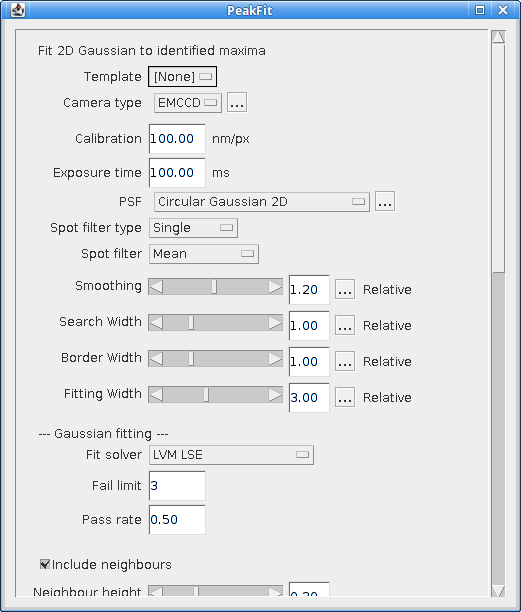
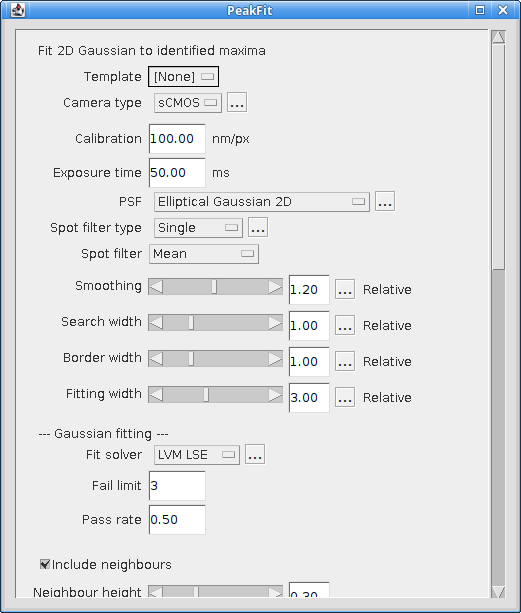
Update PeakFit docs

diff --git a/docs/fitting_plugins.rst b/docs/fitting_plugins.rst
@@ -481,7 +481,7 @@ The maxima identification parameters control the search for local maxima in the 
    * - Spot filter type
      - The type of filter to use. The default is a ``Single`` filter.
 
-       If a ``Difference`` or ``Jury`` filter is selected then the plugin will present an additional dialog to configure each additional spot filter. See section :numref:`{number}: {name} <fitting_plugins:Spot Filter Type>`.
+       If a ``Difference`` or ``Jury`` filter is selected then pressing the ``...`` button will present an additional dialog to configure each additional spot filter. See section :numref:`{number}: {name} <fitting_plugins:Spot Filter Type>`.
 
    * - Spot filter
      - The name of the first spot filter:
@@ -570,7 +570,7 @@ The fitting parameters control the fitting algorithm. Fitting is performed on ea
 
        *   ``Fast MLE``: Use a fast Newton-Raphson gradient based maximum likelihood estimation (MLE). The probability model uses Poisson shot noise and Gaussian read noise.
 
-       Each ``Fit Solver`` requires further parameters that are collected in a separate dialog.
+       Each ``Fit Solver`` requires further parameters that can be configured by pressing the ``...`` button.
 
    * - Fail Limit
      - Stop processing the image frame when more than N *consecutive* candidates are rejected. The candidate may be rejected due to a failure to fit the PSF or due to the PSF filter parameters.
@@ -1271,7 +1271,7 @@ The following filtering parameters can be configured:
    * - Smart filter
      - Set to **true** to enable the smart filter.
 
-       A separate dialog is used to enter the XML description of the smart filter.
+       A separate dialog is used to enter the XML description of the smart filter by pressing the ``...`` button.
 
    * - Disable simple filter
      - Set to **true** to disable the simple filters. Only the smart filter will be used.
@@ -1482,6 +1482,23 @@ The results parameters control where the list of localisations will be recorded.
        This is very fast and is the default option applied when no other results outputs are chosen (preventing the loss of results). Results in memory can be accessed by other plugins, for example the ``Result Manager`` can convert them to file or images.
 
        The memory results will be named using the input image title. If a results set already exists with the same name then it will be replaced.
+
+
+
+.. index:: Peak Fit Preview
+
+Peak Fit Preview
+~~~~~~~~~~~~~~~~
+
+If the ``Peak Fit`` plugin is executed using an image then a ``Preview`` option is provided. When preview mode is enabled then any changes to the settings are used to perform fitting on the current image frame. The preview can overlay the results on the current frame and display a table of the results. Preview options are configured using the ``...`` button including configuration of the preview results table. This configuration is separate from the main results table output as fitting of the entire image may not select to generate a table. The preview will respect the ``Log progress`` and ``Show deviations`` options on the main dialog.
+
+If the settings are invalid then an error message is written to the ``ImageJ`` log window and the current preview output will be removed.
+
+.. note::
+
+    Preview mode can be used to experiment with settings and interactively view the effects of changes. However the preview is only available on the current image frame. To preview settings on another frame requires the main dialog to be cancelled, the image frame updated and then the ``Peak Fit`` plugin to be run again.
+
+    The preview mode does not support the additional options for interlaced or integrated frames (see :numref:`{name} <fitting_plugins:Additional Fitting Options>`).
 
 
 .. index:: Interactive Results Table
